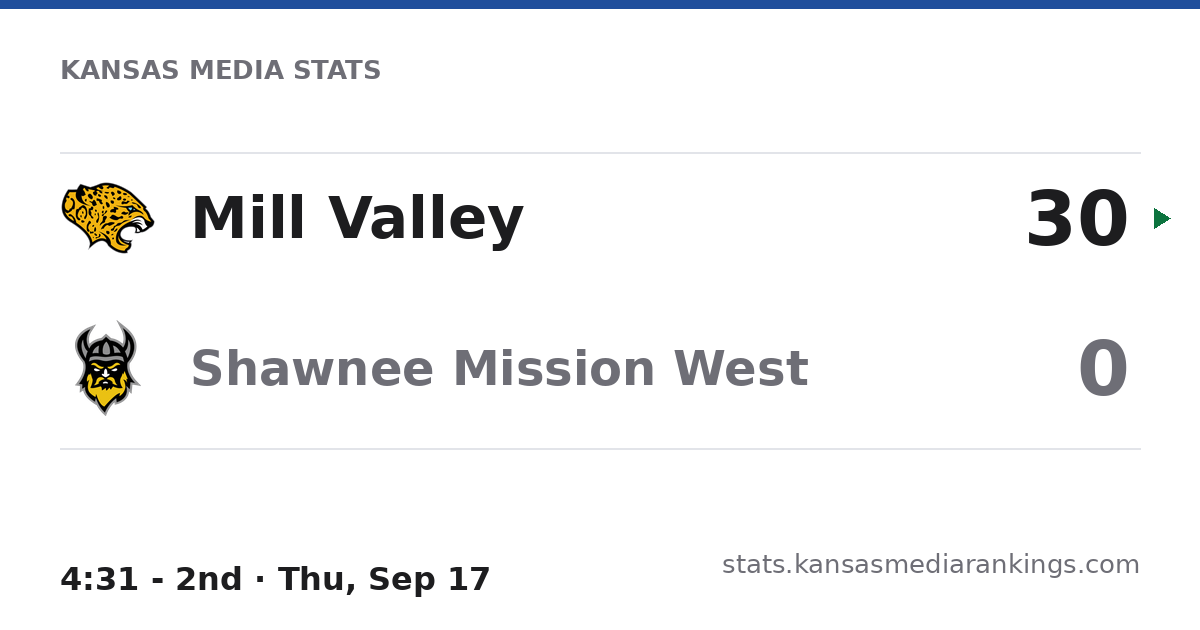
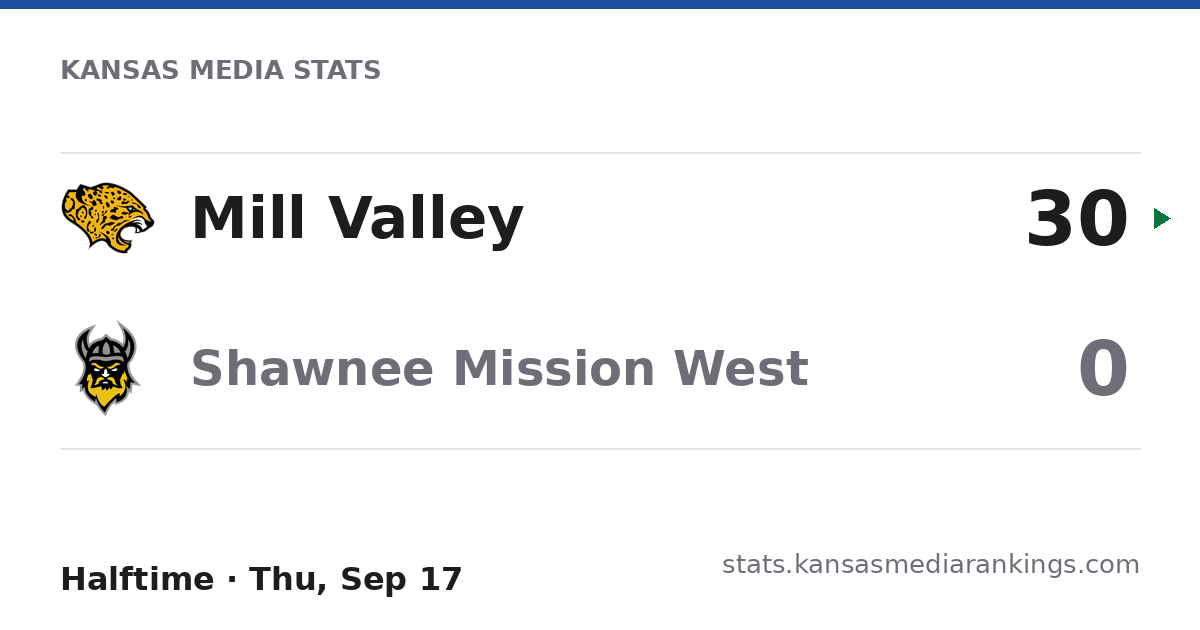
Score cards for games just finished

Changed region(s): [[0.0308, 0.8746, 0.4317, 0.9651]]

diff --git a/g/gmu5s66jd/index.html b/g/gmu5s66jd/index.html
@@ -1,11 +1,11 @@
 <!doctype html>
 <html lang="en"><head><meta charset="utf-8">
 <title>Mill Valley 30, Shawnee Mission West 0 · Kansas Media Stats</title>
-<meta name="description" content="4:31 - 2nd · Thu, Sep 17 · Play-by-play, box score and stats on Kansas Media Stats">
+<meta name="description" content="Halftime · Thu, Sep 17 · Play-by-play, box score and stats on Kansas Media Stats">
 <meta property="og:type" content="website">
 <meta property="og:site_name" content="Kansas Media Stats">
 <meta property="og:title" content="Mill Valley 30, Shawnee Mission West 0">
-<meta property="og:description" content="4:31 - 2nd · Thu, Sep 17 · Play-by-play, box score and stats on Kansas Media Stats">
+<meta property="og:description" content="Halftime · Thu, Sep 17 · Play-by-play, box score and stats on Kansas Media Stats">
 <meta property="og:url" content="https://stats.kansasmediarankings.com/g/gmu5s66jd/">
 <meta property="og:image" content="https://stats.kansasmediarankings.com/g/gmu5s66jd/card.png">
 <meta property="og:image:width" content="1200">
@@ -13,7 +13,7 @@
 <meta property="og:image:alt" content="Mill Valley 30, Shawnee Mission West 0">
 <meta name="twitter:card" content="summary_large_image">
 <meta name="twitter:title" content="Mill Valley 30, Shawnee Mission West 0">
-<meta name="twitter:description" content="4:31 - 2nd · Thu, Sep 17 · Play-by-play, box score and stats on Kansas Media Stats">
+<meta name="twitter:description" content="Halftime · Thu, Sep 17 · Play-by-play, box score and stats on Kansas Media Stats">
 <meta name="twitter:image" content="https://stats.kansasmediarankings.com/g/gmu5s66jd/card.png">
 <link rel="canonical" href="https://stats.kansasmediarankings.com/g/gmu5s66jd/">
 <meta http-equiv="refresh" content="0; url=/?game=gmu5s66jd">
